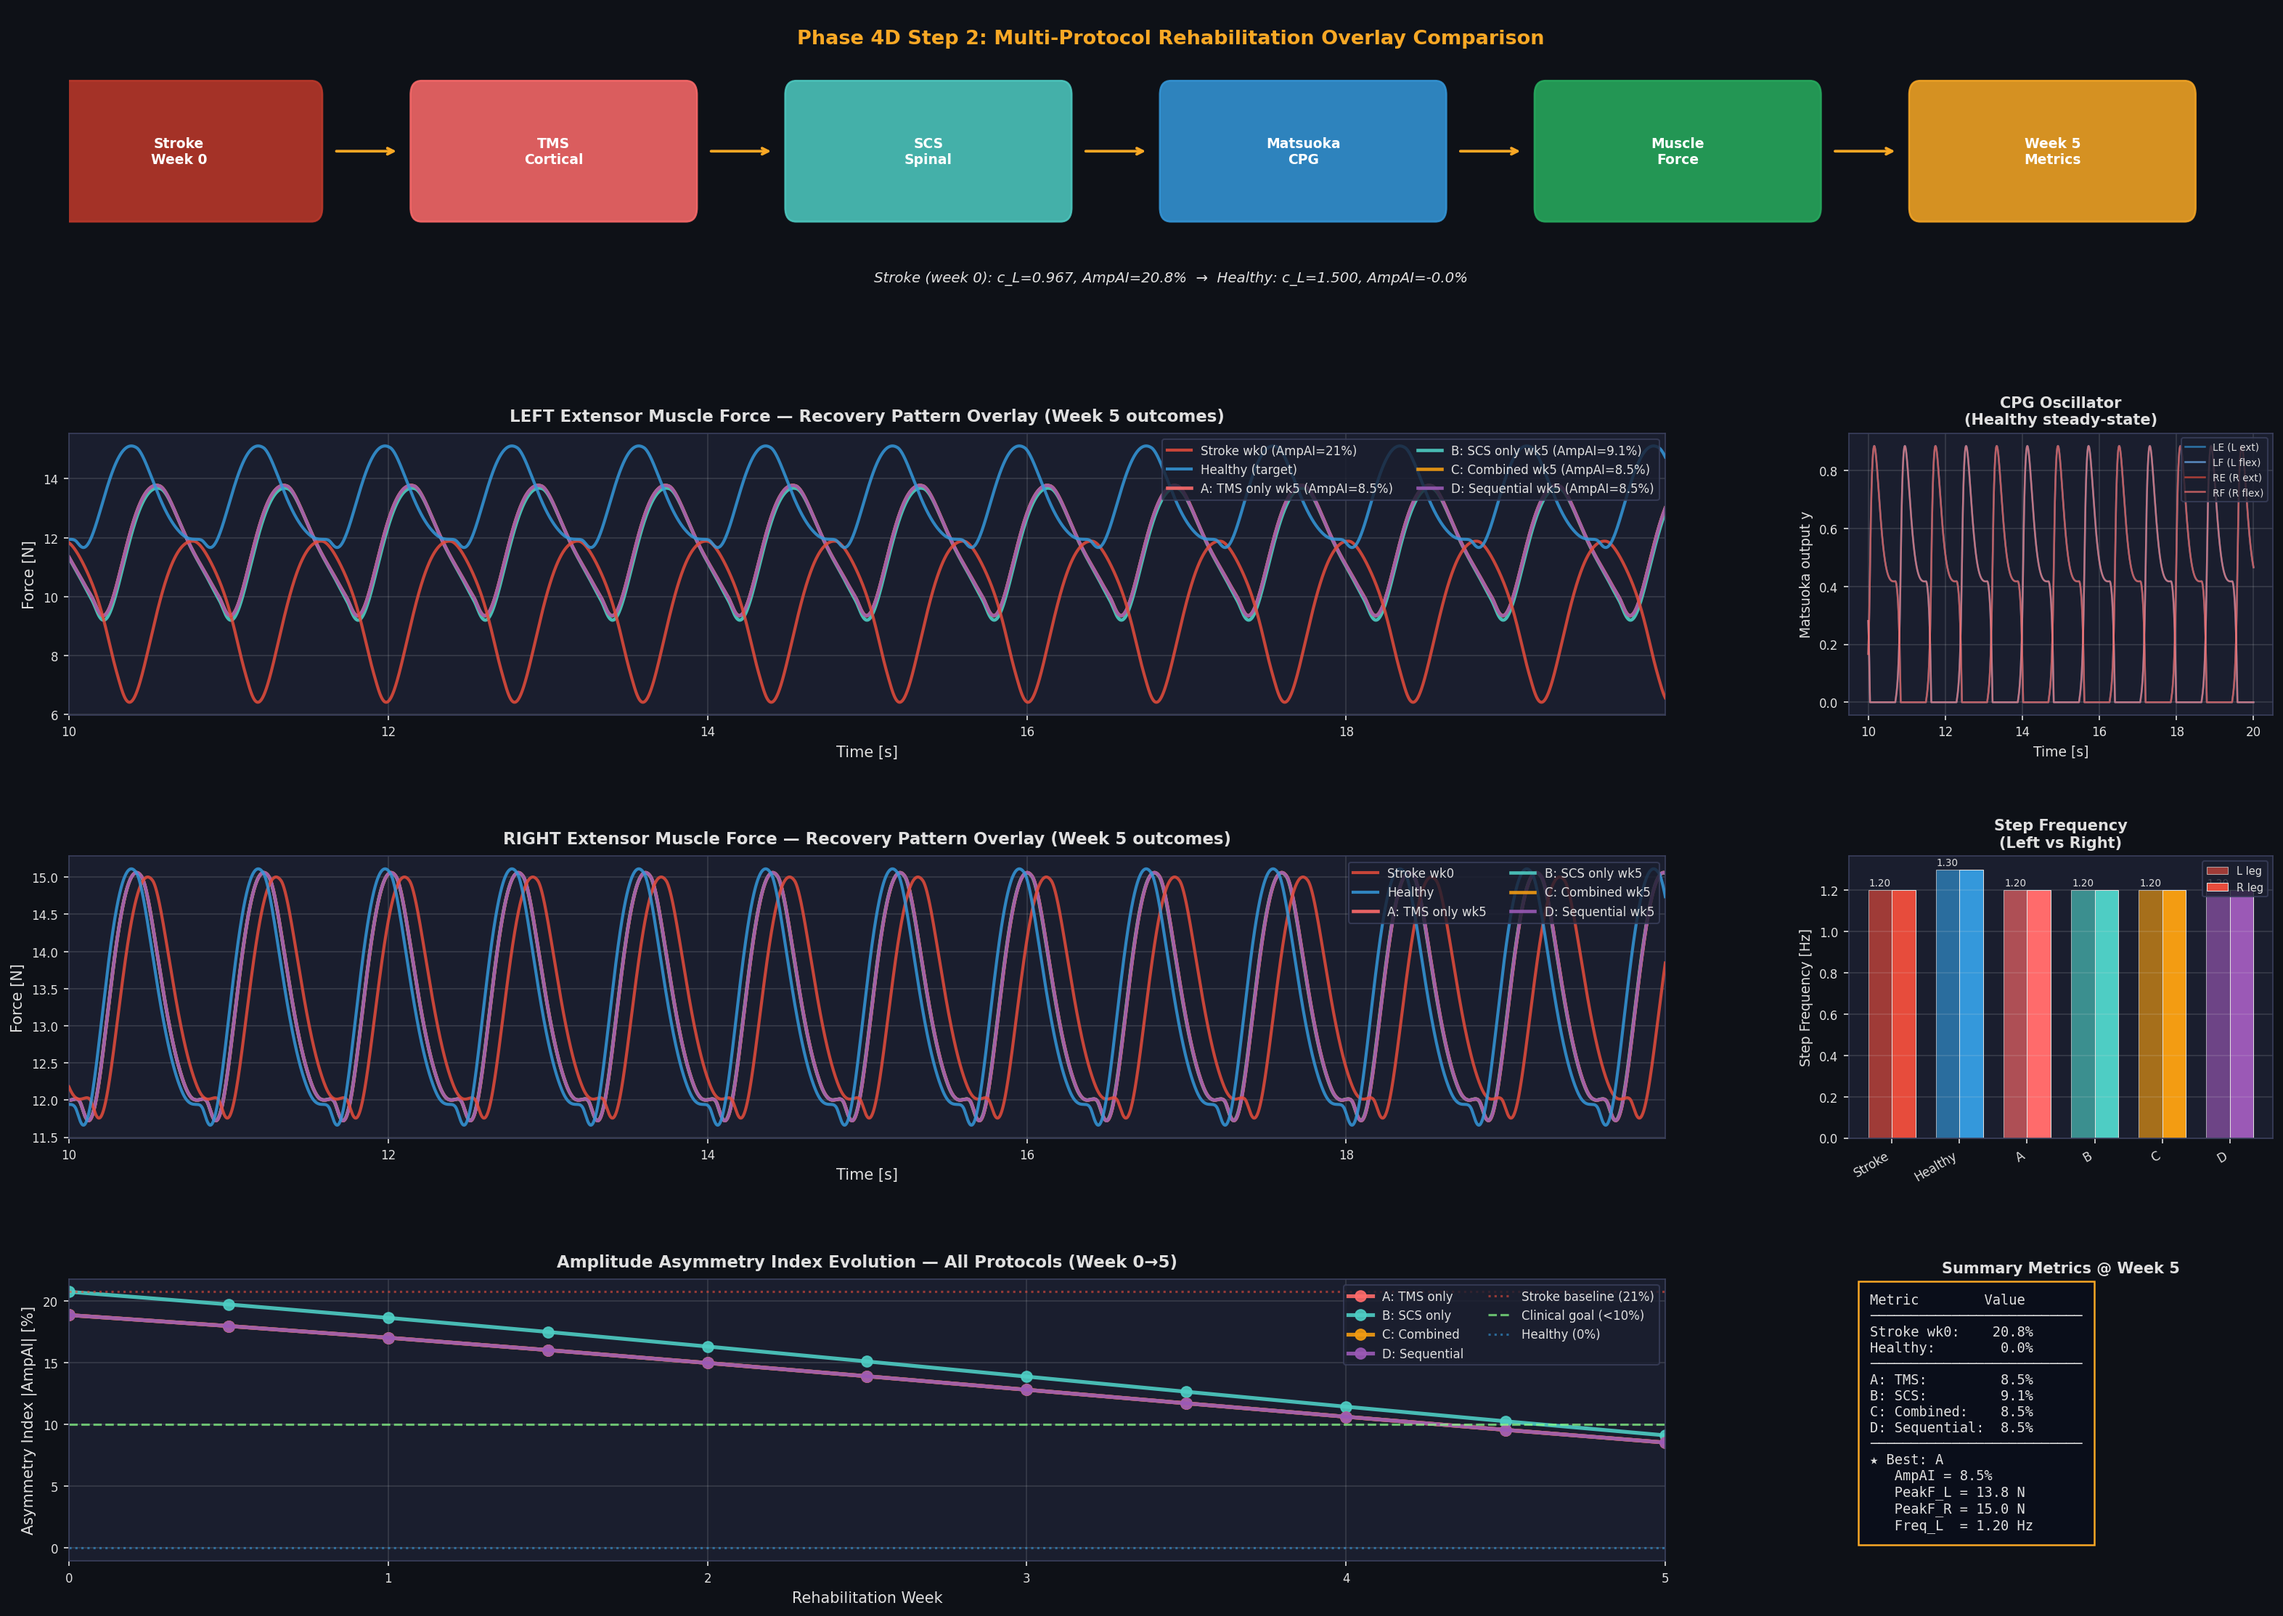
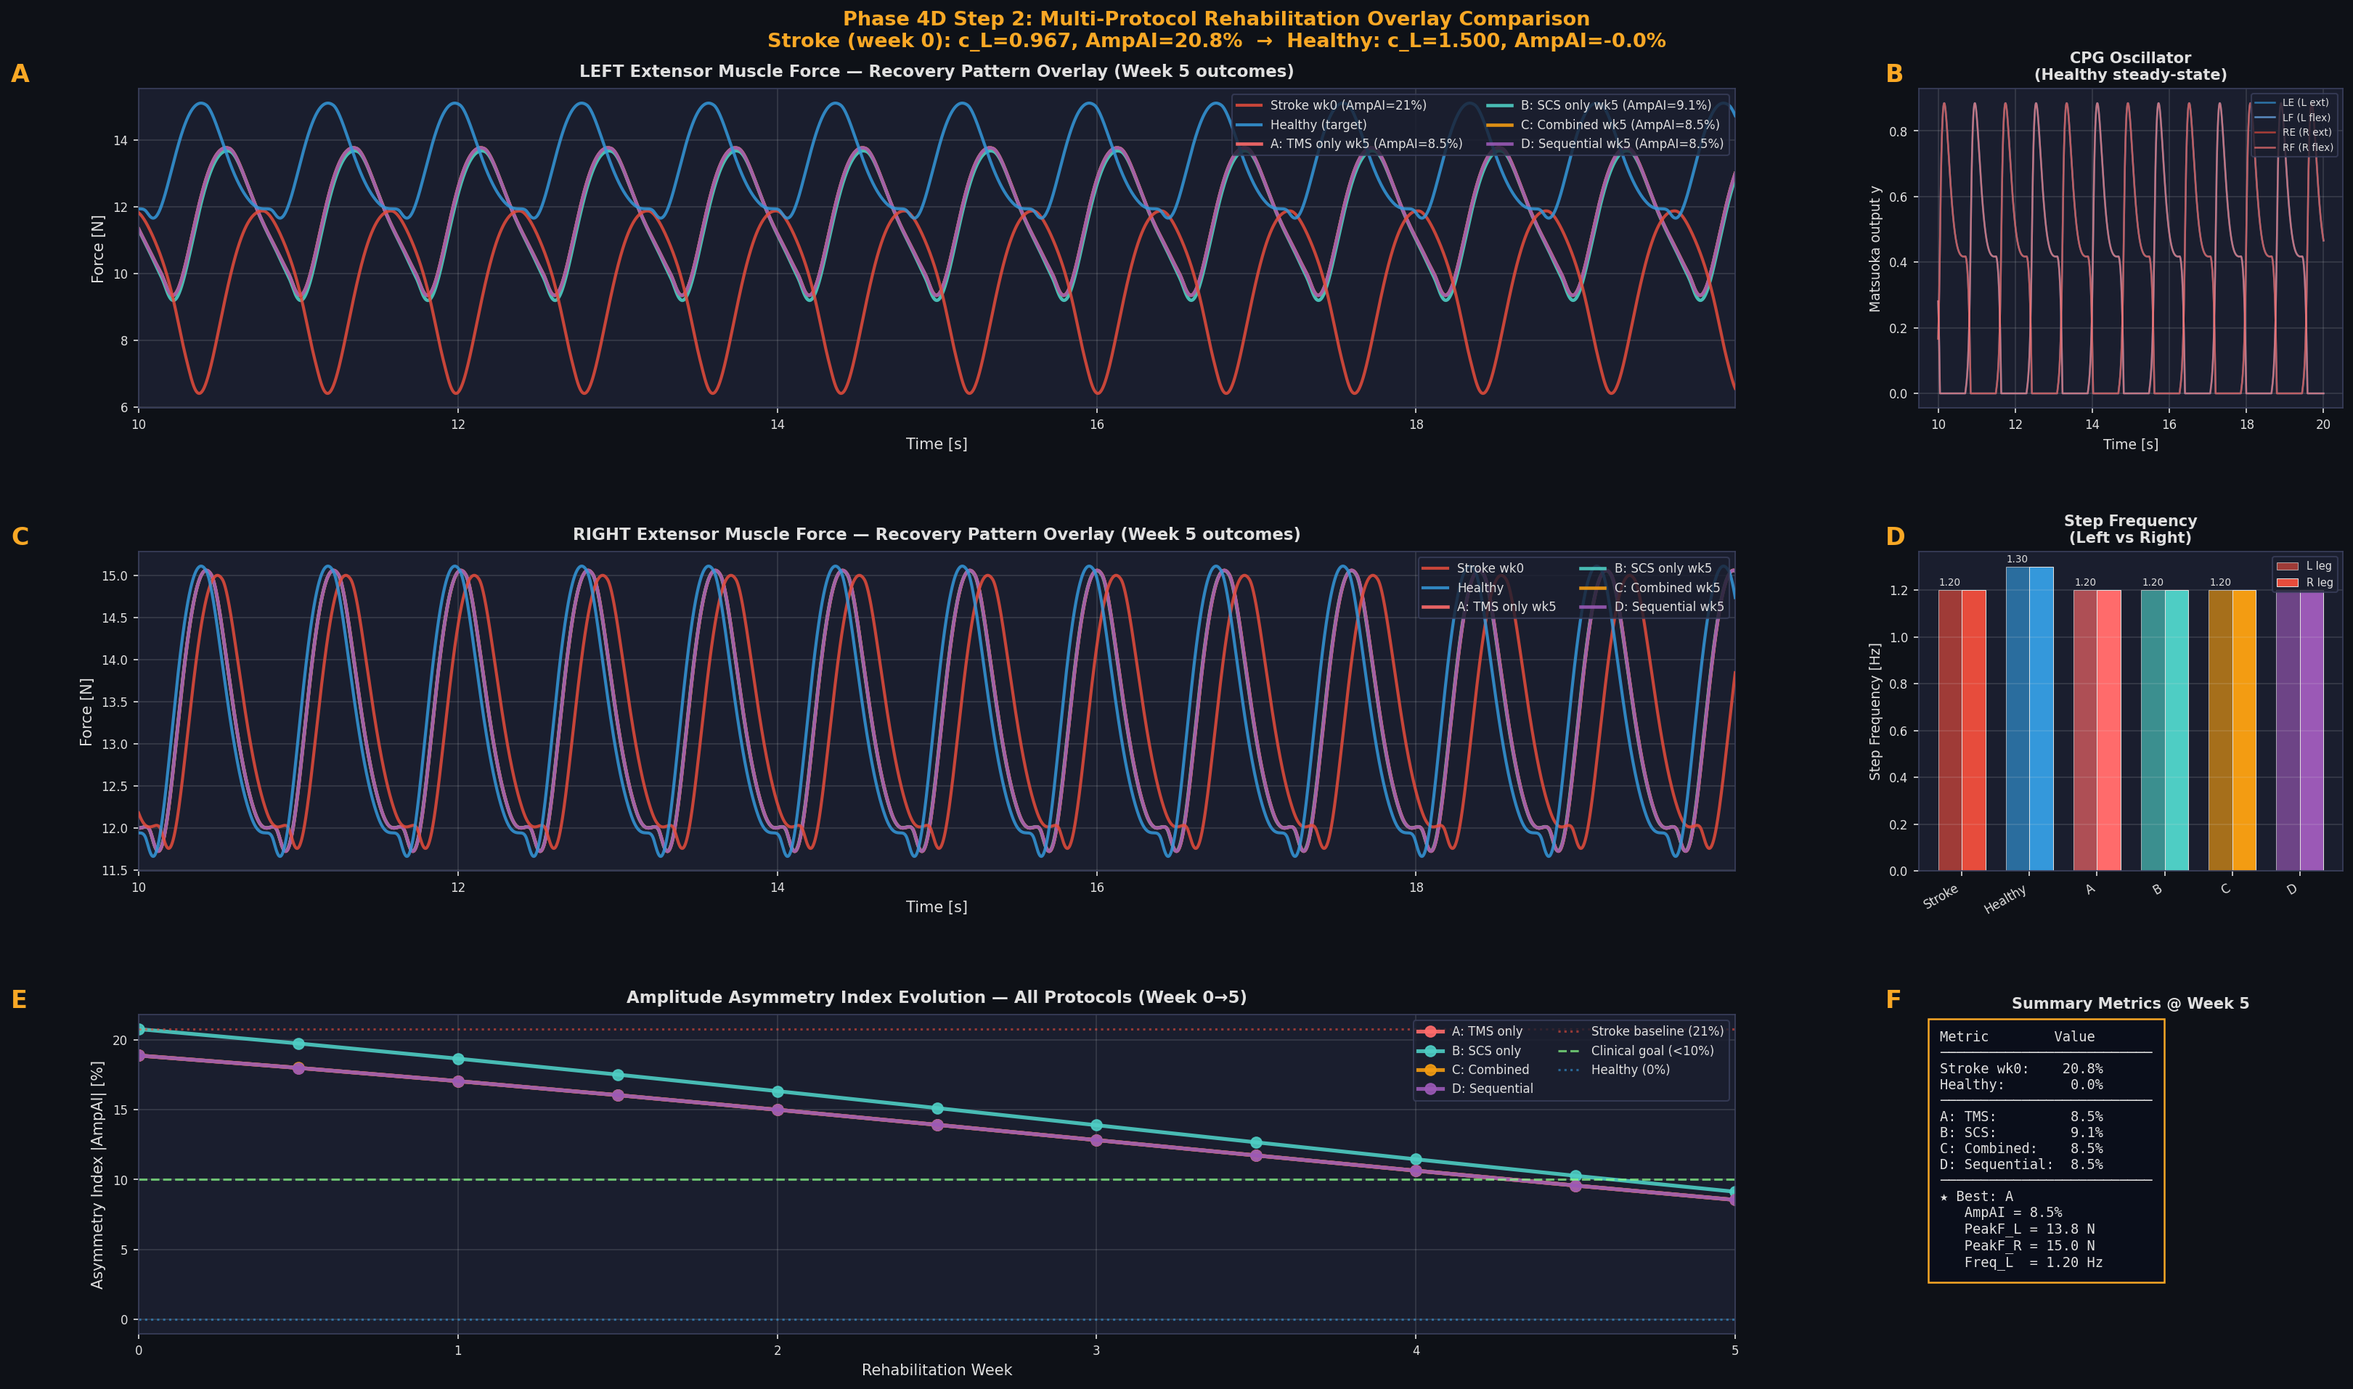
Phase 4D Step 2: Add panel indexes (A-F), remove top schematic

Changed region(s): [[0.0, 0.0, 0.9971, 0.9556], [0.0, 0.7398, 0.7479, 0.9248], [0.0312, 0.9556, 0.7167, 1.0]]

diff --git a/tvb_phase4d_step2_overlay.py b/tvb_phase4d_step2_overlay.py
@@ -261,12 +261,12 @@ def make_unified_comparison_figure():
         proto_metrics[proto_name] = extract_metrics(res)
 
     # ── Build figure ──────────────────────────────────────────────────────────
-    fig = plt.figure(figsize=(22, 16))
+    fig = plt.figure(figsize=(22, 13))
     fig.patch.set_facecolor(DARK)
 
-    gs = gridspec.GridSpec(4, 3, figure=fig,
-                          left=0.05, right=0.97, top=0.93, bottom=0.04,
-                          hspace=0.50, wspace=0.30,
+    gs = gridspec.GridSpec(3, 3, figure=fig,
+                          left=0.05, right=0.97, top=0.93, bottom=0.05,
+                          hspace=0.45, wspace=0.30,
                           width_ratios=[2.5, 2.5, 1.5])
 
     def mk_ax(r, c, rs=1, cs=1):
@@ -279,46 +279,23 @@ def make_unified_comparison_figure():
         ax.yaxis.label.set_color(LIGHT)
         return ax
 
-    # ═══ ROW 0: PIPELINE FLOW ═══════════════════════════════════════════════════
-    ax_flow = fig.add_subplot(gs[0, :])
-    ax_flow.set_facecolor(DARK)
-    ax_flow.set_xlim(0, 10)
-    ax_flow.set_ylim(0, 1)
-    ax_flow.axis("off")
+    def add_index(ax, letter):
+        """Add a bold letter index to the top-left of a panel."""
+        ax.text(-0.08, 1.08, letter, fontsize=16, fontweight="bold",
+               color=ACCENT, transform=ax.transAxes, ha="left", va="top")
 
-    pipeline_boxes = [
-        ("Stroke\nWeek 0", "#c0392b", 0.5),
-        ("TMS\nCortical", "#ff6b6b", 2.2),
-        ("SCS\nSpinal", "#4ecdc4", 3.9),
-        ("Matsuoka\nCPG", "#3498db", 5.6),
-        ("Muscle\nForce", "#27ae60", 7.3),
-        ("Week 5\nMetrics", "#f9a825", 9.0),
-    ]
-    for label, color, x in pipeline_boxes:
-        box = FancyBboxPatch((x-0.6, 0.30), 1.2, 0.4,
-                             boxstyle="round,pad=0.05",
-                             linewidth=1.2, edgecolor=color, facecolor=color,
-                             alpha=0.85)
-        ax_flow.add_patch(box)
-        ax_flow.text(x, 0.50, label, ha="center", va="center",
-                    fontsize=9, color="white", fontweight="bold")
+    # Suptitle replaces the removed pipeline row
+    fig.suptitle(
+        "Phase 4D Step 2: Multi-Protocol Rehabilitation Overlay Comparison\n"
+        f"Stroke (week 0): c_L={c_stroke:.3f}, AmpAI={m_stroke['ai']*100:.1f}%  →  "
+        f"Healthy: c_L={c_healthy:.3f}, AmpAI={m_healthy['ai']*100:.1f}%",
+        fontsize=13, fontweight="bold", color=ACCENT, y=0.985)
 
-    for x_arrow in [1.2, 2.9, 4.6, 6.3, 8.0]:
-        ax_flow.annotate("", xy=(x_arrow+0.3, 0.50), xytext=(x_arrow, 0.50),
-                        arrowprops=dict(arrowstyle="->", color=ACCENT, lw=1.8))
-
-    ax_flow.text(5.0, 0.90,
-                "Phase 4D Step 2: Multi-Protocol Rehabilitation Overlay Comparison",
-                ha="center", va="center", fontsize=13, color=ACCENT, fontweight="bold")
-    ax_flow.text(5.0, 0.05,
-                f"Stroke (week 0): c_L={c_stroke:.3f}, AmpAI={m_stroke['ai']*100:.1f}%  →  "
-                f"Healthy: c_L={c_healthy:.3f}, AmpAI={m_healthy['ai']*100:.1f}%",
-                ha="center", va="center", fontsize=9.5, color=LIGHT, style="italic")
-
-    # ═══ ROW 1: LEFT MUSCLE FORCE OVERLAY ═══════════════════════════════════════
-    ax_LF = mk_ax(1, 0, cs=2)
+    # ═══ ROW 0: LEFT MUSCLE FORCE OVERLAY (Panel A) ════════════════════════════
+    ax_LF = mk_ax(0, 0, cs=2)
     ax_LF.set_title("LEFT Extensor Muscle Force — Recovery Pattern Overlay (Week 5 outcomes)",
                    fontsize=11, color=LIGHT, fontweight="bold", pad=8)
+    add_index(ax_LF, "A")
 
     # Plot stroke baseline (greyish red)
     t_ss = res_stroke["time_s"]
@@ -348,10 +325,11 @@ def make_unified_comparison_figure():
     ax_LF.grid(True, alpha=0.15, color=LIGHT)
     ax_LF.set_xlim(t_plot[0], t_plot[-1])
 
-    # ═══ ROW 1: CPG OSCILLATOR (RIGHT) ═══════════════════════════════════════════
-    ax_cpg = mk_ax(1, 2)
+    # ═══ ROW 0: CPG OSCILLATOR (Panel B) ═══════════════════════════════════════
+    ax_cpg = mk_ax(0, 2)
     ax_cpg.set_title("CPG Oscillator\n(Healthy steady-state)", fontsize=10,
                     color=LIGHT, fontweight="bold", pad=6)
+    add_index(ax_cpg, "B")
 
     cpg_idx = np.argmax(res_healthy["time_s"] >= 10.0)
     cpg_t = res_healthy["time_s"][cpg_idx:cpg_idx+10000]
@@ -369,10 +347,11 @@ def make_unified_comparison_figure():
                  labelcolor=LIGHT, loc="upper right")
     ax_cpg.grid(True, alpha=0.15, color=LIGHT)
 
-    # ═══ ROW 2: RIGHT MUSCLE FORCE OVERLAY ═══════════════════════════════════════
-    ax_RF = mk_ax(2, 0, cs=2)
+    # ═══ ROW 1: RIGHT MUSCLE FORCE OVERLAY (Panel C) ═══════════════════════════
+    ax_RF = mk_ax(1, 0, cs=2)
     ax_RF.set_title("RIGHT Extensor Muscle Force — Recovery Pattern Overlay (Week 5 outcomes)",
                    fontsize=11, color=LIGHT, fontweight="bold", pad=8)
+    add_index(ax_RF, "C")
 
     force_R_stroke = (res_stroke["force_RE"] + res_stroke["force_RF"])[t_start_idx:]
     ax_RF.plot(t_plot, force_R_stroke, color=COLOR_STROKE, lw=2.0,
@@ -394,10 +373,11 @@ def make_unified_comparison_figure():
     ax_RF.grid(True, alpha=0.15, color=LIGHT)
     ax_RF.set_xlim(t_plot[0], t_plot[-1])
 
-    # ═══ ROW 2: STEP FREQUENCY BAR CHART ═════════════════════════════════════════
-    ax_freq = mk_ax(2, 2)
+    # ═══ ROW 1: STEP FREQUENCY BAR CHART (Panel D) ══════════════════════════════
+    ax_freq = mk_ax(1, 2)
     ax_freq.set_title("Step Frequency\n(Left vs Right)", fontsize=10,
                      color=LIGHT, fontweight="bold", pad=6)
+    add_index(ax_freq, "D")
 
     bar_labels = ["Stroke", "Healthy"] + [p[0] for p in protocols.keys()]
     freqs_L = [m_stroke["freq_L"], m_healthy["freq_L"]] + \
@@ -427,10 +407,11 @@ def make_unified_comparison_figure():
                   labelcolor=LIGHT, loc="upper right")
     ax_freq.grid(True, alpha=0.15, color=LIGHT, axis="y")
 
-    # ═══ ROW 3: ASYMMETRY EVOLUTION ALL PROTOCOLS ════════════════════════════════
-    ax_asym = mk_ax(3, 0, cs=2)
+    # ═══ ROW 2: ASYMMETRY EVOLUTION ALL PROTOCOLS (Panel E) ════════════════════
+    ax_asym = mk_ax(2, 0, cs=2)
     ax_asym.set_title("Amplitude Asymmetry Index Evolution — All Protocols (Week 0→5)",
                      fontsize=11, color=LIGHT, fontweight="bold", pad=8)
+    add_index(ax_asym, "E")
 
     weeks_eval = np.arange(0, 5.5, 0.5)
 
@@ -459,11 +440,12 @@ def make_unified_comparison_figure():
     ax_asym.grid(True, alpha=0.15, color=LIGHT)
     ax_asym.set_xlim(0, 5)
 
-    # ═══ ROW 3: SUMMARY METRICS TABLE ════════════════════════════════════════════
-    ax_tab = mk_ax(3, 2)
+    # ═══ ROW 2: SUMMARY METRICS TABLE (Panel F) ═════════════════════════════════
+    ax_tab = mk_ax(2, 2)
     ax_tab.axis("off")
     ax_tab.set_title("Summary Metrics @ Week 5", fontsize=10,
                     color=LIGHT, fontweight="bold", pad=4)
+    add_index(ax_tab, "F")
 
     # Best protocol (lowest |AmpAI|)
     best_proto = min(proto_metrics.items(), key=lambda kv: abs(kv[1]["ai"]))
